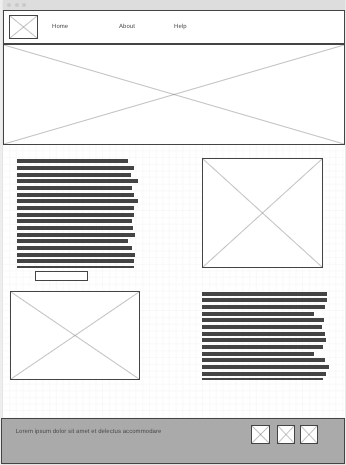
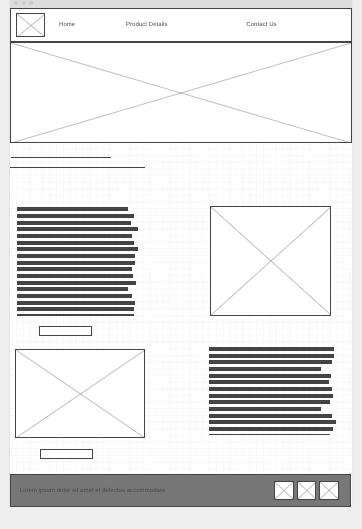
update

diff --git a/personal-folder/site-plan.html b/personal-folder/site-plan.html
@@ -128,8 +128,8 @@
         [Written copy for the home page here]
       </p>
       <p>Images for the Home page</p>
-        <img src="#" alt="image for homepage">
-        <img src="#" alt="image for homepage">
+        <img src="images/v6_a_set_of_v6_products.jpg" alt="image for homepage">
+        <img src="images/v6_windshield_washer.jpg" alt="image for homepage">
 
       </ul>
       <h3>[Page 2]</h3>
@@ -161,7 +161,7 @@
       <p>         
         [Any additional details about home that the wireframe does not make clear]
       </p>
-      <img src="#" alt="Home Page.png">
+      <img src="images/home.png" alt="Home Page.png">
 
       <h3>[Page 2]</h3>
       <p>         

diff --git a/index.html b/index.html
@@ -13,9 +13,9 @@
       <a href="wrr/index.html">White Water Rafting Website</a>
       <a href="wrr/site-plan-rafting.html">White Water Rafting Siteplan</a>
       <a href="positioning.html">Positioning Activity</a>
-      <a href="#">Personal Website</a>
-      <a href="#">Personal Siteplan</a>
+      <a href="personal-folder/index.html">Personal Website</a>
+      <a href="personal-folder/site-plan.html">Personal Siteplan</a>
     </nav>  
-    <p>Your Name Here - WDD130</p>
+    <p>Christopher Nsiah - WDD130</p>
 </body>
 </html>
